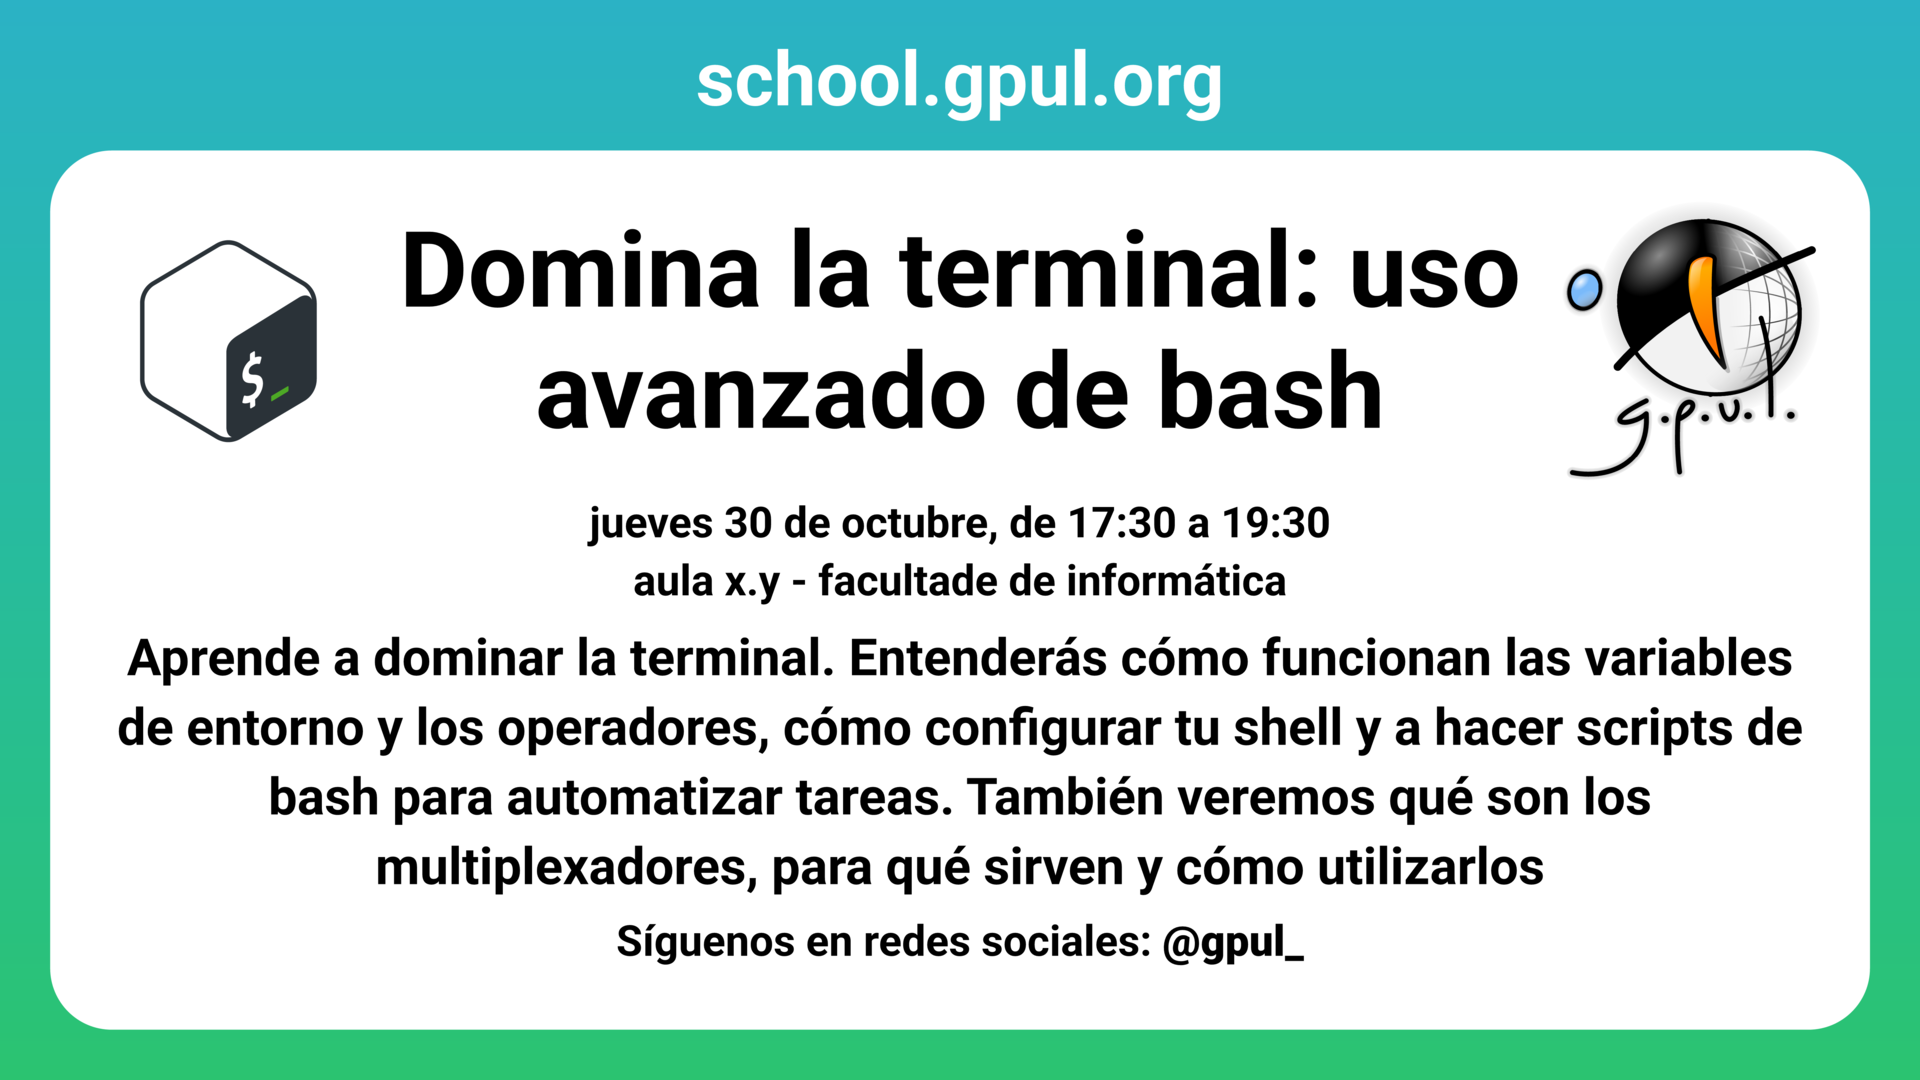
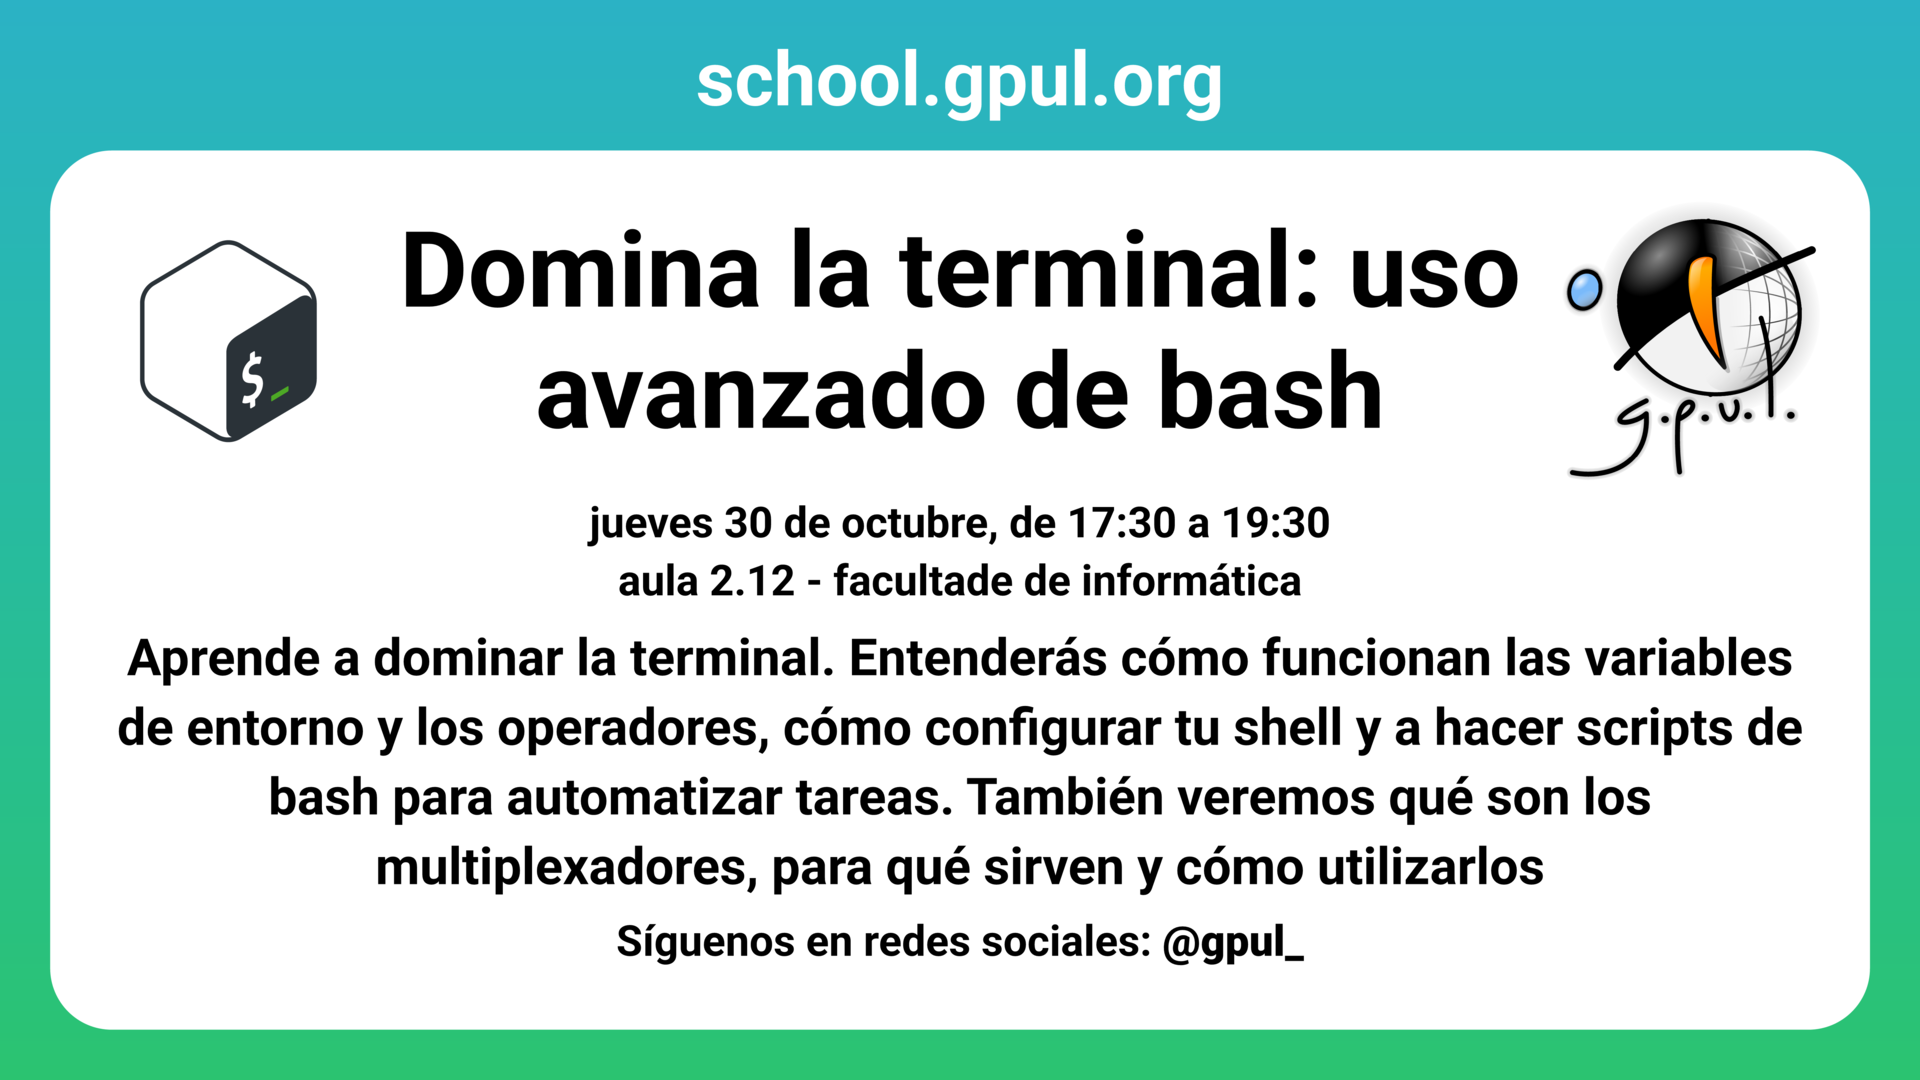
feat: Complete terminal talk information

Changed region(s): [[0.3125, 0.5194, 0.6875, 0.55]]

diff --git a/src/content/eventos/2025/terminal.md b/src/content/eventos/2025/terminal.md
@@ -2,7 +2,7 @@
 title: "Domina la terminal: uso avanzado de bash"
 excerpt: Aprende a dominar la terminal. Entenderás cómo funcionan las variables de entorno y los operadores, cómo configurar tu shell y a hacer scripts de bash para automatizar tareas. También veremos qué son los multiplexadores, para qué sirven y cómo utilizarlos
 date: 2025-10-30T17:30:00
-location: Aula sin definir, Facultade de Informática
+location: Aula 2.12, Facultade de Informática
 tags: ['School']
 status: upcoming
 authors: [sprinter05]
